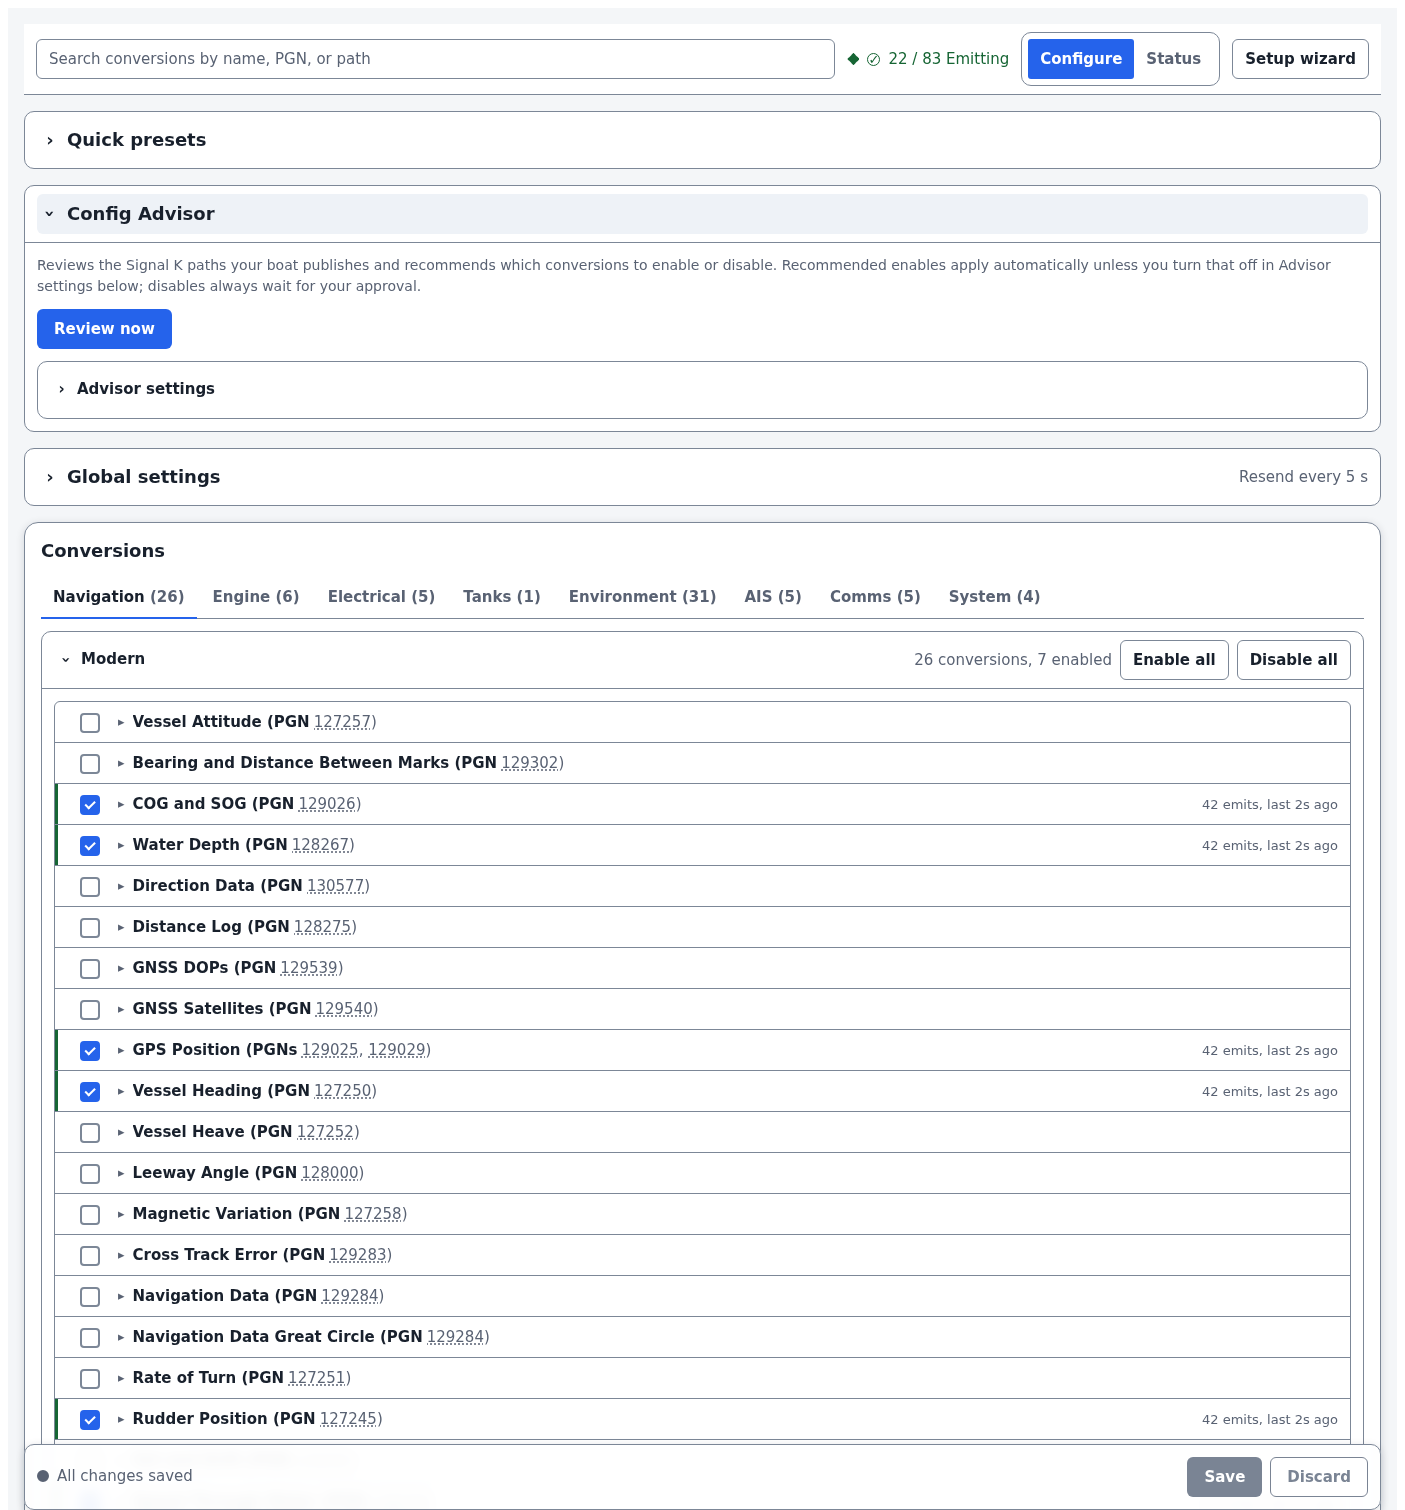
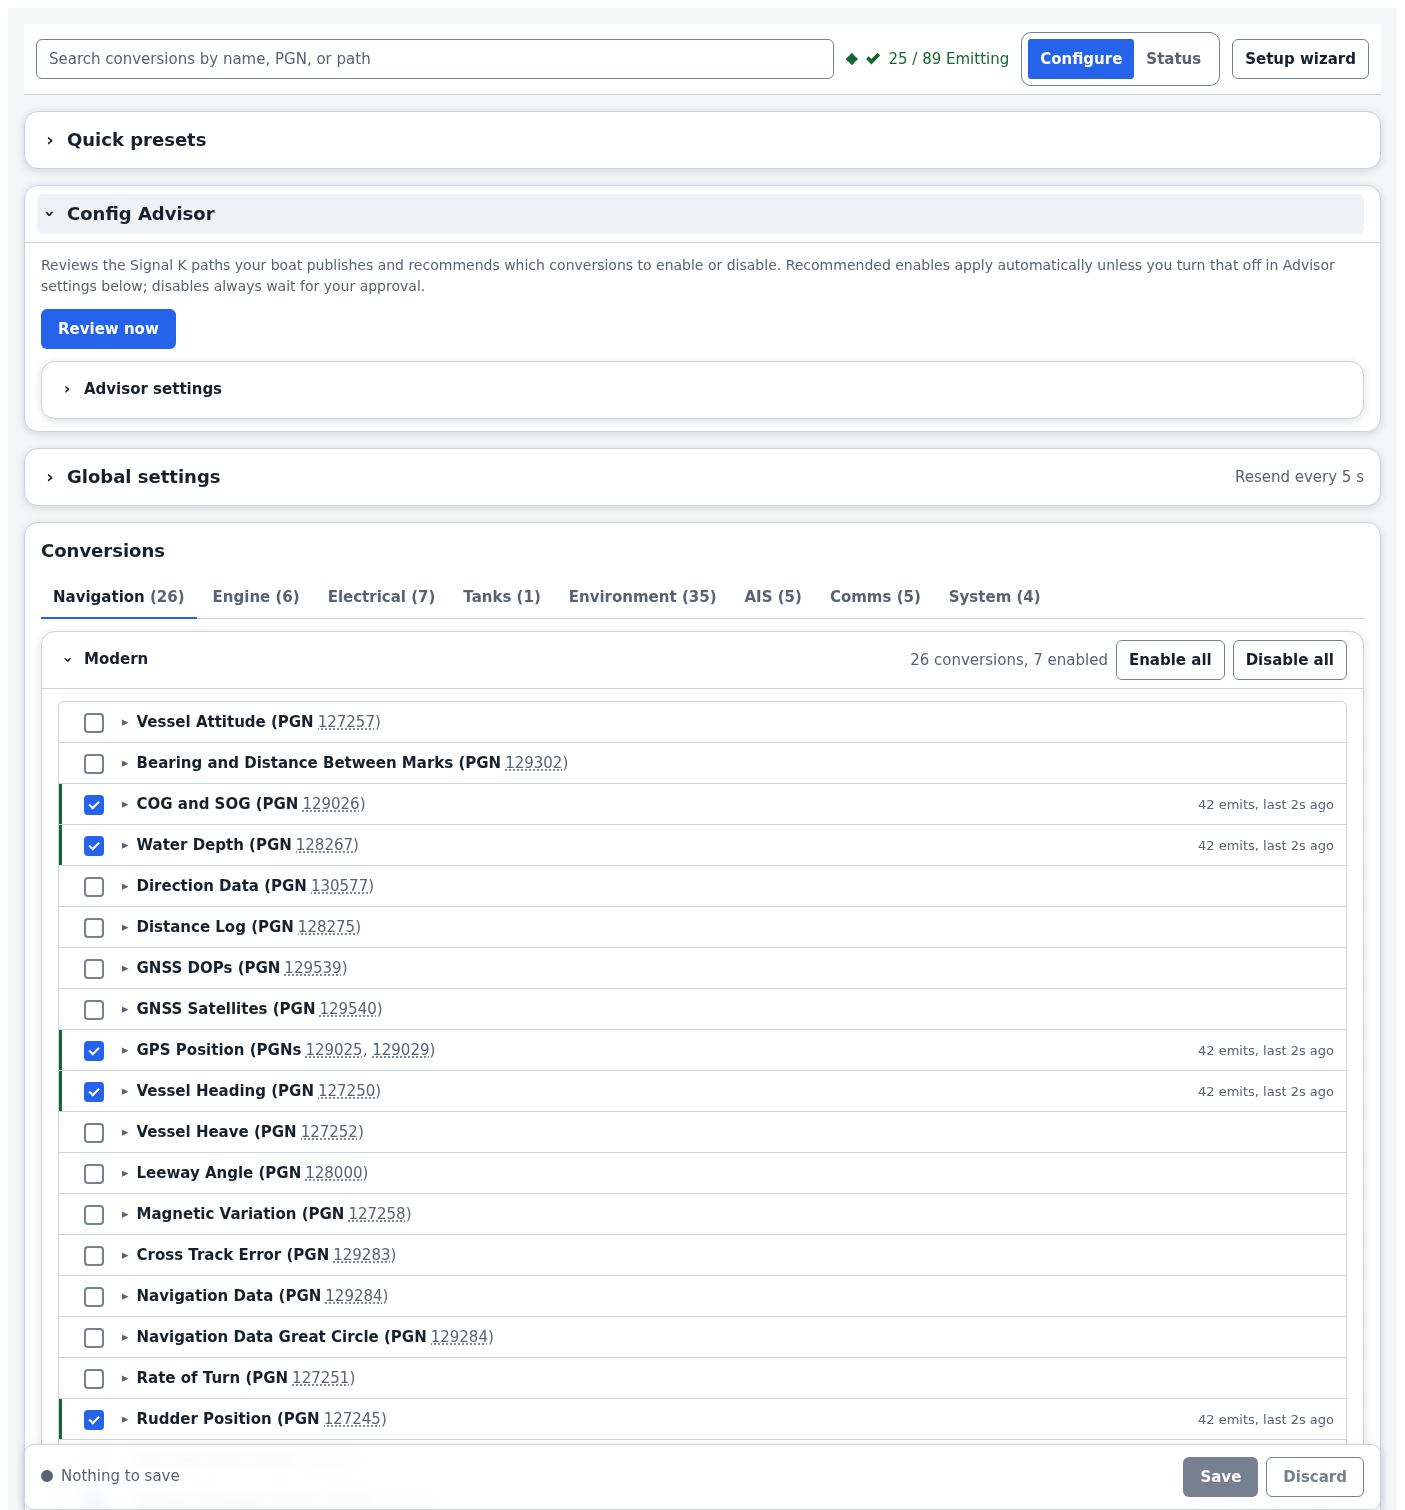
release: prepare 1.12.0
Claude-Session: https://claude.ai/code/session_01RUR1m9q5q3u8FNqGiX6R1u

diff --git a/README.md b/README.md
@@ -16,66 +16,30 @@ reviewed against model-specific chartplotter receive lists.
 > Built on the foundation of [`signalk-to-nmea2000`](https://github.com/SignalK/signalk-to-nmea2000)
 > by Scott Bender and the Signal K community.
 
-## What's new in 1.11.0
+## What's new in 1.12.0
 
-- **A direction a hair short of north is no longer dropped by the receiver.**
-  A value in the last 0.002 degrees below a full turn rounded past the ceiling
-  the receiving display enforces, so the display discarded the field: a compass
-  reading 359.999 degrees arrived as heading not available rather than as
-  north. It now clamps, moving the reading by at most 0.005 degrees. This
-  covers heading, course over ground, set, wind angle, the waypoint bearings,
-  and satellite azimuth. It is the one fix here that corrects a dropout on
-  correctly configured hardware.
-- **A reading that cannot fit its NMEA 2000 field no longer arrives as a
-  believable wrong number.** A wrapped value is worse than a missing one: the
-  receiving display has no way to tell it is wrong. Attitude, compass, and
-  leeway angles now wrap to the direction the wire can carry instead of
-  truncating to a different one, and an out-of-range rate of turn, heave,
-  rudder angle, depth, battery, solar, engine, transmission, or speed value is
-  left as not-available. A starboard turn no longer reaches the autopilot as a
-  port turn, a vessel dropping into a trough is no longer reported as rising, a
-  93 percent battery no longer reads as 84 percent, a shaft turning astern no
-  longer reports 14584 RPM, a shunt publishing milliamperes no longer turns a
-  23 A charge into a 3114 A discharge with no time remaining, and 700 m/s
-  through the water no longer reads as a believable 87 knots. A reading that
-  goes blank after this upgrade is one of these: the publisher is sending
-  something the field cannot carry, and the troubleshooting guide in the
-  repository's docs directory has the unit checklist. These guards catch a
-  value that wraps, not every unit mistake, so a wrong reading that still fits
-  its field is unchanged.
-- **The plugin tells you when NMEA 2000 output has no listener.** A disabled or
-  torn-down NMEA 2000 connection used to leave the status on "Running" while
-  every frame went nowhere. After a short run of undelivered writes the plugin
-  raises an error naming Server, Connections, and clears it as soon as one
-  frame gets through.
-- **A scheduled Config Advisor review runs only while the advisor is on.**
-  Switching the advisor off used to leave a saved review schedule armed, and a
-  scheduled review can enable conversions by itself, so an installation that
-  had tried the advisor and then switched it off could start transmitting PGNs
-  nobody approved with no one at the panel. A review set to use QuestDB history
-  but with no usable URL now says so instead of quietly reporting on live data
-  only.
-- **A configuration panel rebuilt on one shared component set.** The runtime
-  status table no longer re-renders behind the Configure view on every
-  keystroke, and a mapping table builds each column's path suggestions once per
-  render instead of once per cell, so editing a large table stays responsive.
-  The category tabs, the collapsible sections, the setup wizard, the mapping
-  tables, every number field, and the Save and Discard footer now come from the
-  shared `signalk-nearlcrews-ui` library, and the configure view has a real
-  heading outline from Quick presets through Conversions. The theme selector
-  moved to the foot of the panel and names what its two automatic choices
-  follow: Match Admin follows the Signal K Admin theme, and Match device
-  follows the operating system preference. Status text carries a glyph beside
-  its color rather than relying on hue, every field and group error leads with
-  a tone mark and a spoken tone word, a focused number field gives up focus
-  before a wheel or trackpad scroll can spin its value, Save and Discard keep
-  their place in the tab order while a validation error blocks saving, removing
-  a mapping-table row asks for confirmation in a labeled region beneath it
-  instead of the Remove button briefly renaming itself, and a render failure
-  offers Try again in place rather than replacing the plugin card with Signal K
-  Admin's generic unavailable notice.
+- **Each conversion shows what the major vendors' receive lists say.** Its
+  editor carries one badge each for Garmin, Raymarine, B&G, and Furuno,
+  reading listed, limited, or not listed from their published NMEA 2000
+  lists, with notes for what a list cannot show. The PGN reference names
+  every source document and revision.
+- **Garmin chartplotters get water temperature from the Environmental
+  preset.** Garmin's NMEA 2000 technical reference reads water temperature
+  from PGN 130310, 130311, or 130312 and not from 130316, so the preset now
+  also sends sea temperature on PGN 130312.
+- **AIS base stations are relayed, and no longer as aids to navigation.**
+  Base stations go out on PGN 129793 whichever way Signal K received them.
+  One from an NMEA 0183 AIS receiver used to reach displays as an AtoN report.
+- **Switch bank, DC source, and well temperature output.** Switch Bank Status
+  (PGN 127501) reports switch states from `electrical.switches`, DC Voltage
+  and Current (PGN 127751) reports alternators and other DC sources that are
+  not batteries, and live well and bait well temperatures join the
+  temperature conversions.
+- **Propane tanks no longer count as fuel.** A Signal K gas tank went out as
+  Fuel on PGN 127505, which added it to a display's fuel total and range. The
+  tank editor now rejects a gas row and says why, and bait well tanks pass.
 
-See the [v1.11.0 changelog entry](https://github.com/NearlCrews/signalk-nmea2000-emitter-cannon/blob/main/CHANGELOG.md#v1110)
+See the [v1.12.0 changelog entry](https://github.com/NearlCrews/signalk-nmea2000-emitter-cannon/blob/main/CHANGELOG.md#v1120)
 and [full release history](https://github.com/NearlCrews/signalk-nmea2000-emitter-cannon/blob/main/CHANGELOG.md).
 
 ## What it does

diff --git a/CHANGELOG.md b/CHANGELOG.md
@@ -5,6 +5,10 @@ format follows [Keep a Changelog](https://keepachangelog.com/en/1.1.0/).
 
 ## [Unreleased]
 
+<a id="v1120"></a>
+
+## [1.12.0] - 2026-10-18
+
 ### Added
 
 - AIS base stations are relayed on PGN 129793, which the B&G Zeus3S and
@@ -13,9 +17,10 @@ format follows [Keep a Changelog](https://keepachangelog.com/en/1.1.0/).
   does not carry them.
 - Switch Bank Status (PGN 127501) reports the on and off state of switches
   under `electrical.switches`, grouped into banks by the instance and channel
-  set in its editor. It only reports states and never switches anything.
-  Garmin and B&G list the PGN; neither documents whether a display shows a
-  bank from another sender.
+  set in its editor. A state keeps going out until it changes, because many
+  switch providers publish only on a change. It only reports states and never
+  switches anything. Garmin and B&G list the PGN; neither documents whether a
+  display shows a bank from another sender.
 - DC Voltage and Current (PGN 127751) reports an alternator, DC-DC converter,
   DC bus, or other non-battery DC source from `electrical.<group>.<id>`, for
   the Raymarine Axiom and the Maretron DSM410.
@@ -27,7 +32,6 @@ format follows [Keep a Changelog](https://keepachangelog.com/en/1.1.0/).
 - The Environmental preset also enables Sea Temperature on PGN 130312,
   because Garmin's NMEA 2000 technical reference reads water temperature from
   PGN 130310, 130311, or 130312 and lists PGN 130316 for air temperature only.
-
 - The configuration panel uses signalk-nearlcrews-ui 0.14.1. Invalid checkboxes,
   radio groups, sliders, and switches now draw a dashed outline beside the
   error text, container outlines and dividers are fainter, and the Light
@@ -76,7 +80,8 @@ format follows [Keep a Changelog](https://keepachangelog.com/en/1.1.0/).
 ### Fixed
 
 - AIS base stations from an NMEA 0183 AIS receiver, which Signal K files under
-  `atons`, are no longer sent to displays as aids to navigation on PGN 129041.
+  `atons` (or `vessels` before nmea0183-signalk 3.18.0), are no longer sent to
+  displays as aids to navigation on PGN 129041.
 - Signal K gas tanks (LPG and propane) are no longer sent on PGN 127505 as
   Fuel, which added them to a display's fuel total and range. PGN 127505 has
   no gas fluid type, so the tank editor now rejects a gas row and says why.
@@ -84,6 +89,9 @@ format follows [Keep a Changelog](https://keepachangelog.com/en/1.1.0/).
   the tank editor's validation.
 - A mapping table's Remove button keeps its label on one line instead of
   breaking it mid-word in tables with three or more columns.
+- A tank mapping row the plugin skips, such as a gas tank kept from an older
+  configuration, no longer renumbers the rows after it in the panel's mapping
+  activity.
 - `THIRD_PARTY_NOTICES.md` now also covers the packages the plugin bundle
   carries, starting with `@sinclair/typebox`, whose MIT notice the published
   package was missing. They are read from the bundler's own output, and
@@ -2050,7 +2058,8 @@ This plugin builds upon the excellent foundation of [signalk-to-nmea2000](https:
 - **Comprehensive Documentation** - Self-documenting code with type definitions
 - **Future-Proof** - Built with latest standards for long-term maintainability
 
-[Unreleased]: https://github.com/NearlCrews/signalk-nmea2000-emitter-cannon/compare/v1.11.0...HEAD
+[Unreleased]: https://github.com/NearlCrews/signalk-nmea2000-emitter-cannon/compare/v1.12.0...HEAD
+[1.12.0]: https://github.com/NearlCrews/signalk-nmea2000-emitter-cannon/compare/v1.11.0...v1.12.0
 [1.11.0]: https://github.com/NearlCrews/signalk-nmea2000-emitter-cannon/compare/v1.10.9...v1.11.0
 [1.10.9]: https://github.com/NearlCrews/signalk-nmea2000-emitter-cannon/compare/v1.10.8...v1.10.9
 [1.10.8]: https://github.com/NearlCrews/signalk-nmea2000-emitter-cannon/compare/v1.10.7...v1.10.8

diff --git a/.github/SECURITY.md b/.github/SECURITY.md
@@ -6,8 +6,8 @@ We actively support the following versions with security updates:
 
 | Version | Supported |
 | ------- | --------- |
-| 1.11.x  | Yes       |
-| < 1.11  | No        |
+| 1.12.x  | Yes       |
+| < 1.12  | No        |
 
 ## Reporting a Vulnerability
 
